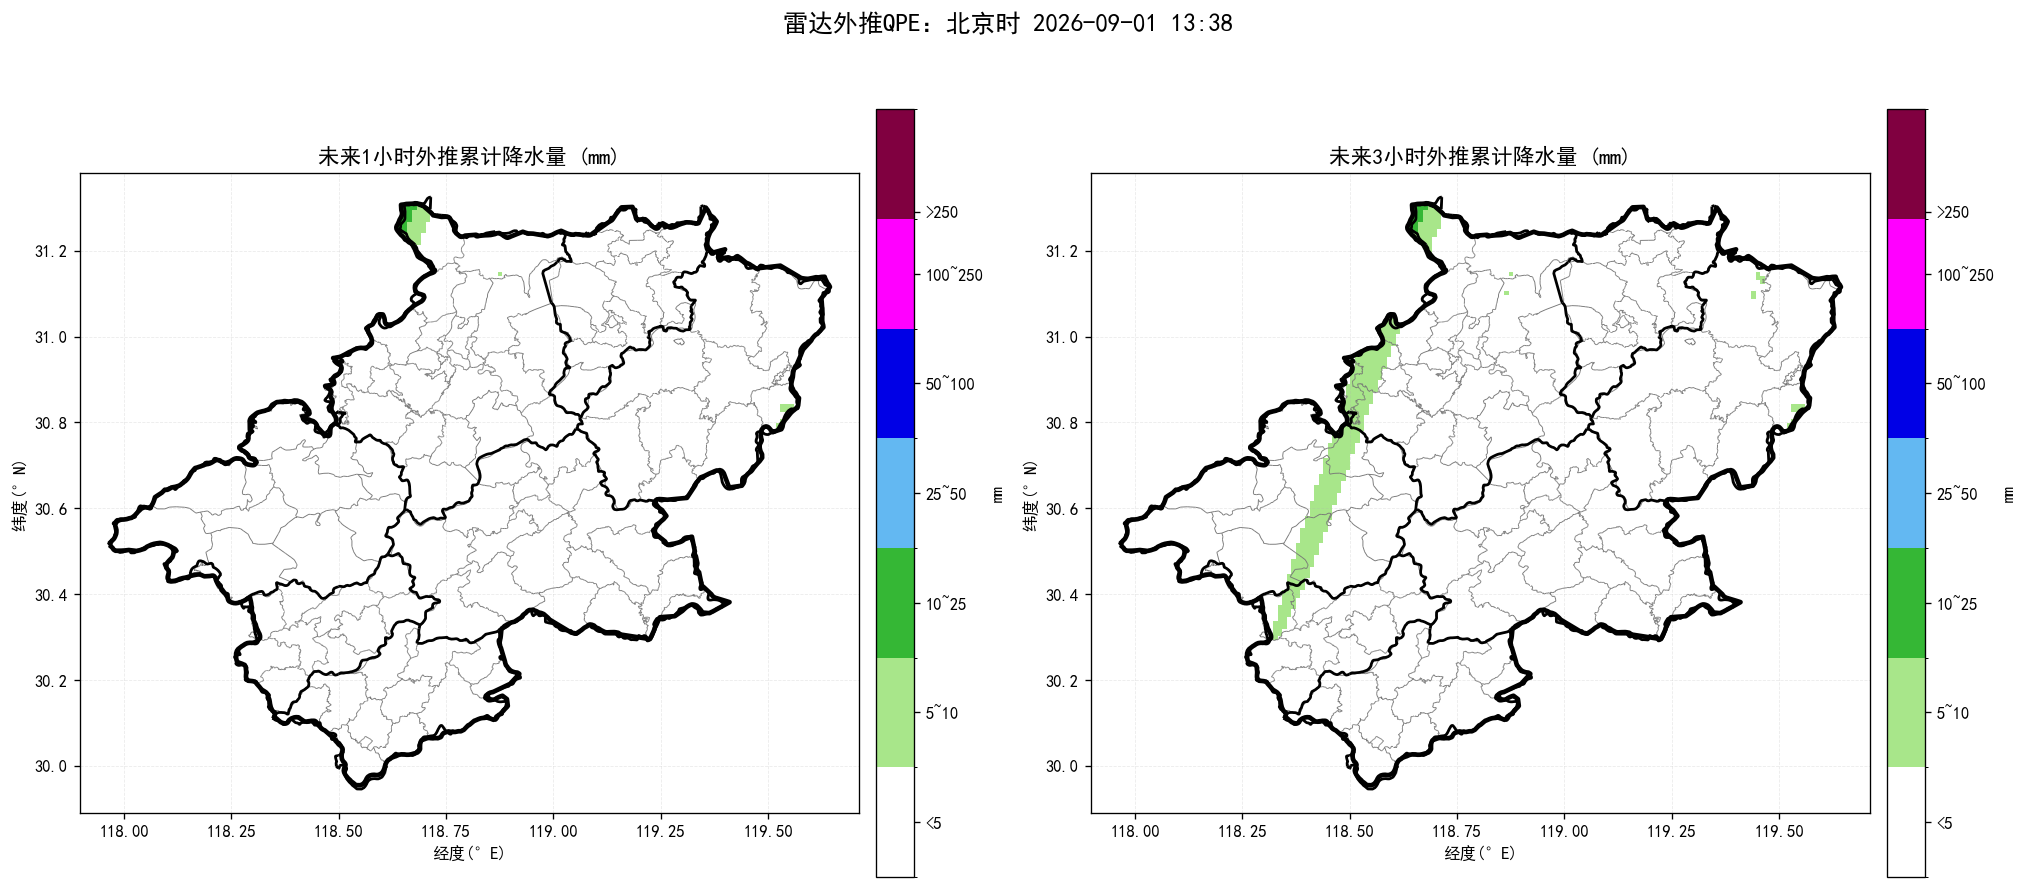
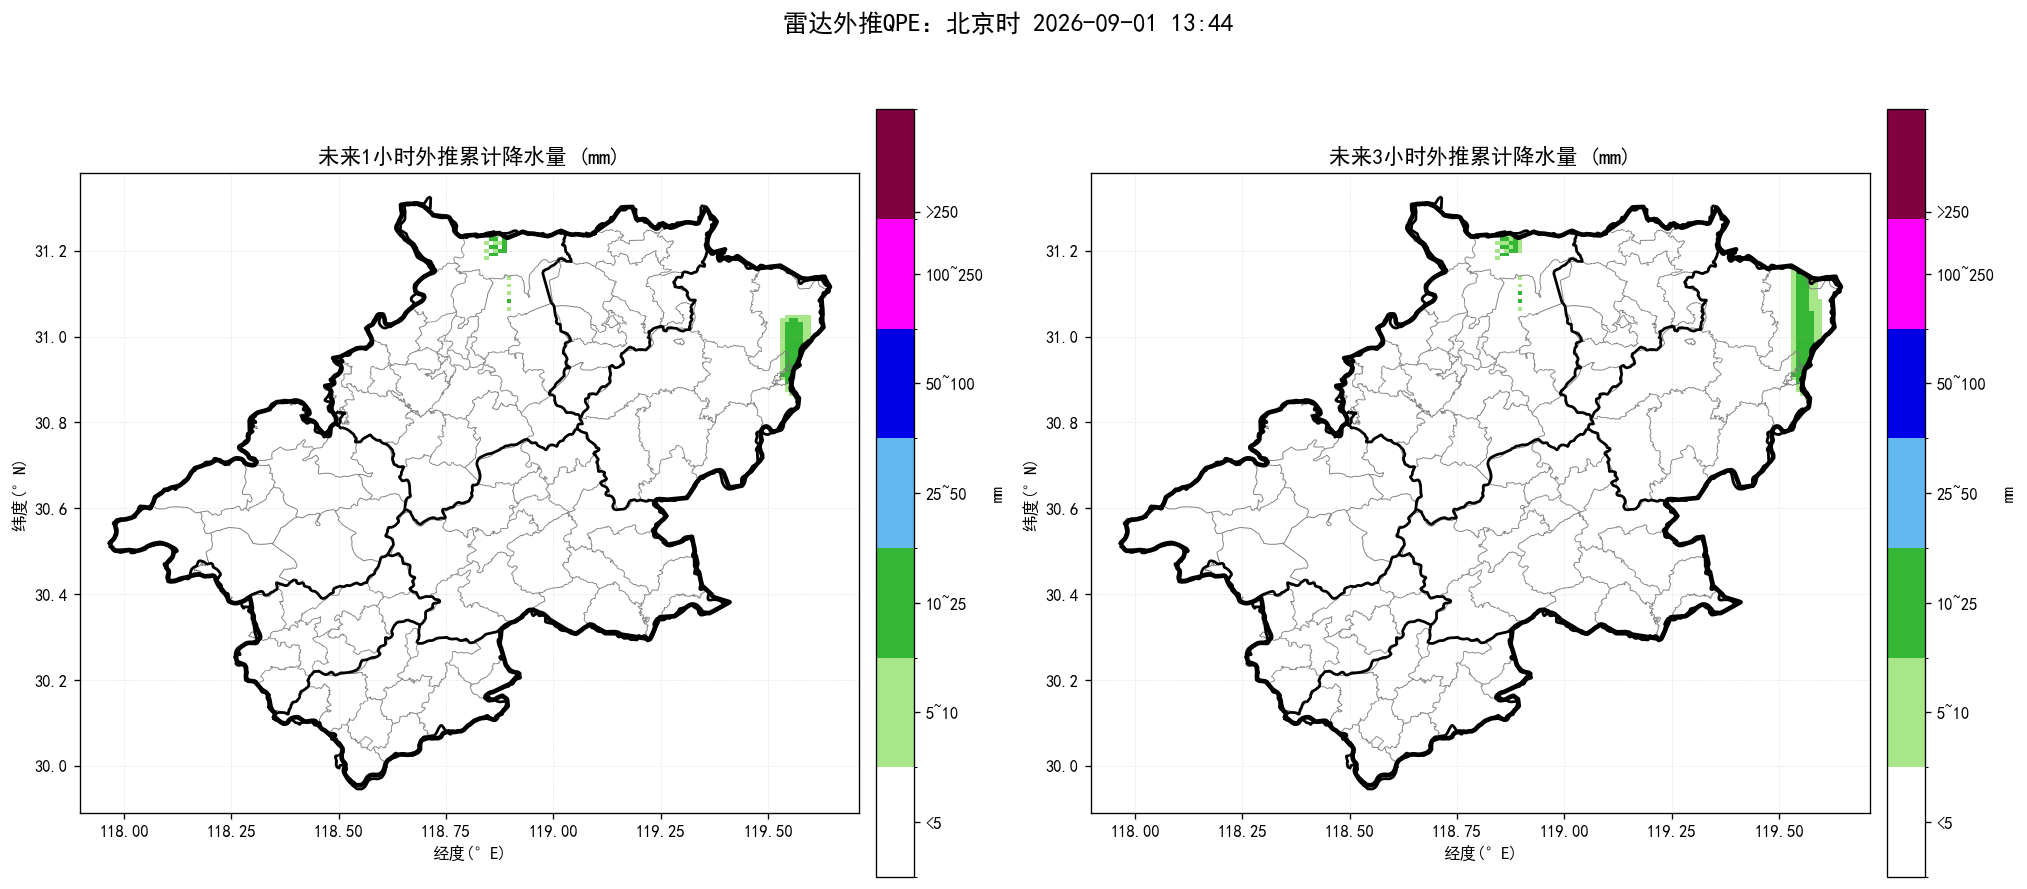
update nowcast products

diff --git a/index.html b/index.html
@@ -14,14 +14,14 @@ img.product{display:block;width:100%;height:auto;margin:10px auto 26px;border:1p
 .footer{font-size:13px;color:#777;text-align:center;margin-top:30px}
 @media(max-width:700px){.sheet{margin:0;padding:18px 15px}.alert-title{font-size:22px}.county-line{font-size:17px}.prob{font-size:18px}}
 </style></head><body><main class="sheet">
-<div class="time">起报时间：北京时 2026-09-01 13:38</div>
-<div class="alert-title">未来一小时降水量超过 20 毫米的乡镇：</div><div class="county-line">无</div>
+<div class="time">起报时间：北京时 2026-09-01 13:44</div>
+<div class="alert-title">未来一小时降水量超过 20 毫米的乡镇：</div><div class="county-line">宣州区：狸桥镇；</div><div class="county-line">广德市：新杭镇、桃州镇</div>
 <div class="alert-title">未来三小时降水量超过 50 毫米的乡镇：</div><div class="county-line">无</div>
-<div class="alert-title">未来三小时雷暴大风（组合反射率 > 55 dBZ）的乡镇：</div><div class="county-line">无</div>
-<div class="prob">最大降水量概率预估：宣城市范围内未来三小时降水偏小，最大预报约12.4毫米，暂不进行50/80/100毫米概率预估。</div>
-<div class="section-title">未来降水预报图：</div><img class="product auto-refresh-product" data-src="短临降水预报.png" src="短临降水预报.png?v=20260901134450" alt="未来降水预报图">
-<div class="section-title">未来三小时组合反射率图：</div><img class="product auto-refresh-product" data-src="未来3小时组合反射率.png" src="未来3小时组合反射率.png?v=20260901134450" alt="未来三小时组合反射率图">
-<div class="section-title">未来三小时雷暴大风图：</div><img class="product auto-refresh-product" data-src="未来3小时雷暴大风.png" src="未来3小时雷暴大风.png?v=20260901134450" alt="未来三小时雷暴大风图">
+<div class="alert-title">未来三小时雷暴大风（组合反射率 > 55 dBZ）的乡镇：</div><div class="county-line">宣州区：狸桥镇</div>
+<div class="prob">最大降水量概率预估：宣城市范围内未来三小时累计降水达到50毫米概率约4%，达到80毫米概率约0%，达到100毫米概率约0%。</div>
+<div class="section-title">未来降水预报图：</div><img class="product auto-refresh-product" data-src="短临降水预报.png" src="短临降水预报.png?v=20260901135059" alt="未来降水预报图">
+<div class="section-title">未来三小时组合反射率图：</div><img class="product auto-refresh-product" data-src="未来3小时组合反射率.png" src="未来3小时组合反射率.png?v=20260901135059" alt="未来三小时组合反射率图">
+<div class="section-title">未来三小时雷暴大风图：</div><img class="product auto-refresh-product" data-src="未来3小时雷暴大风.png" src="未来3小时雷暴大风.png?v=20260901135059" alt="未来三小时雷暴大风图">
 <div class="footer">三张产品图每 60 秒自动刷新一次；每次请求自动附加新的URL参数以绕过缓存。</div>
 <script>
 (function() {
